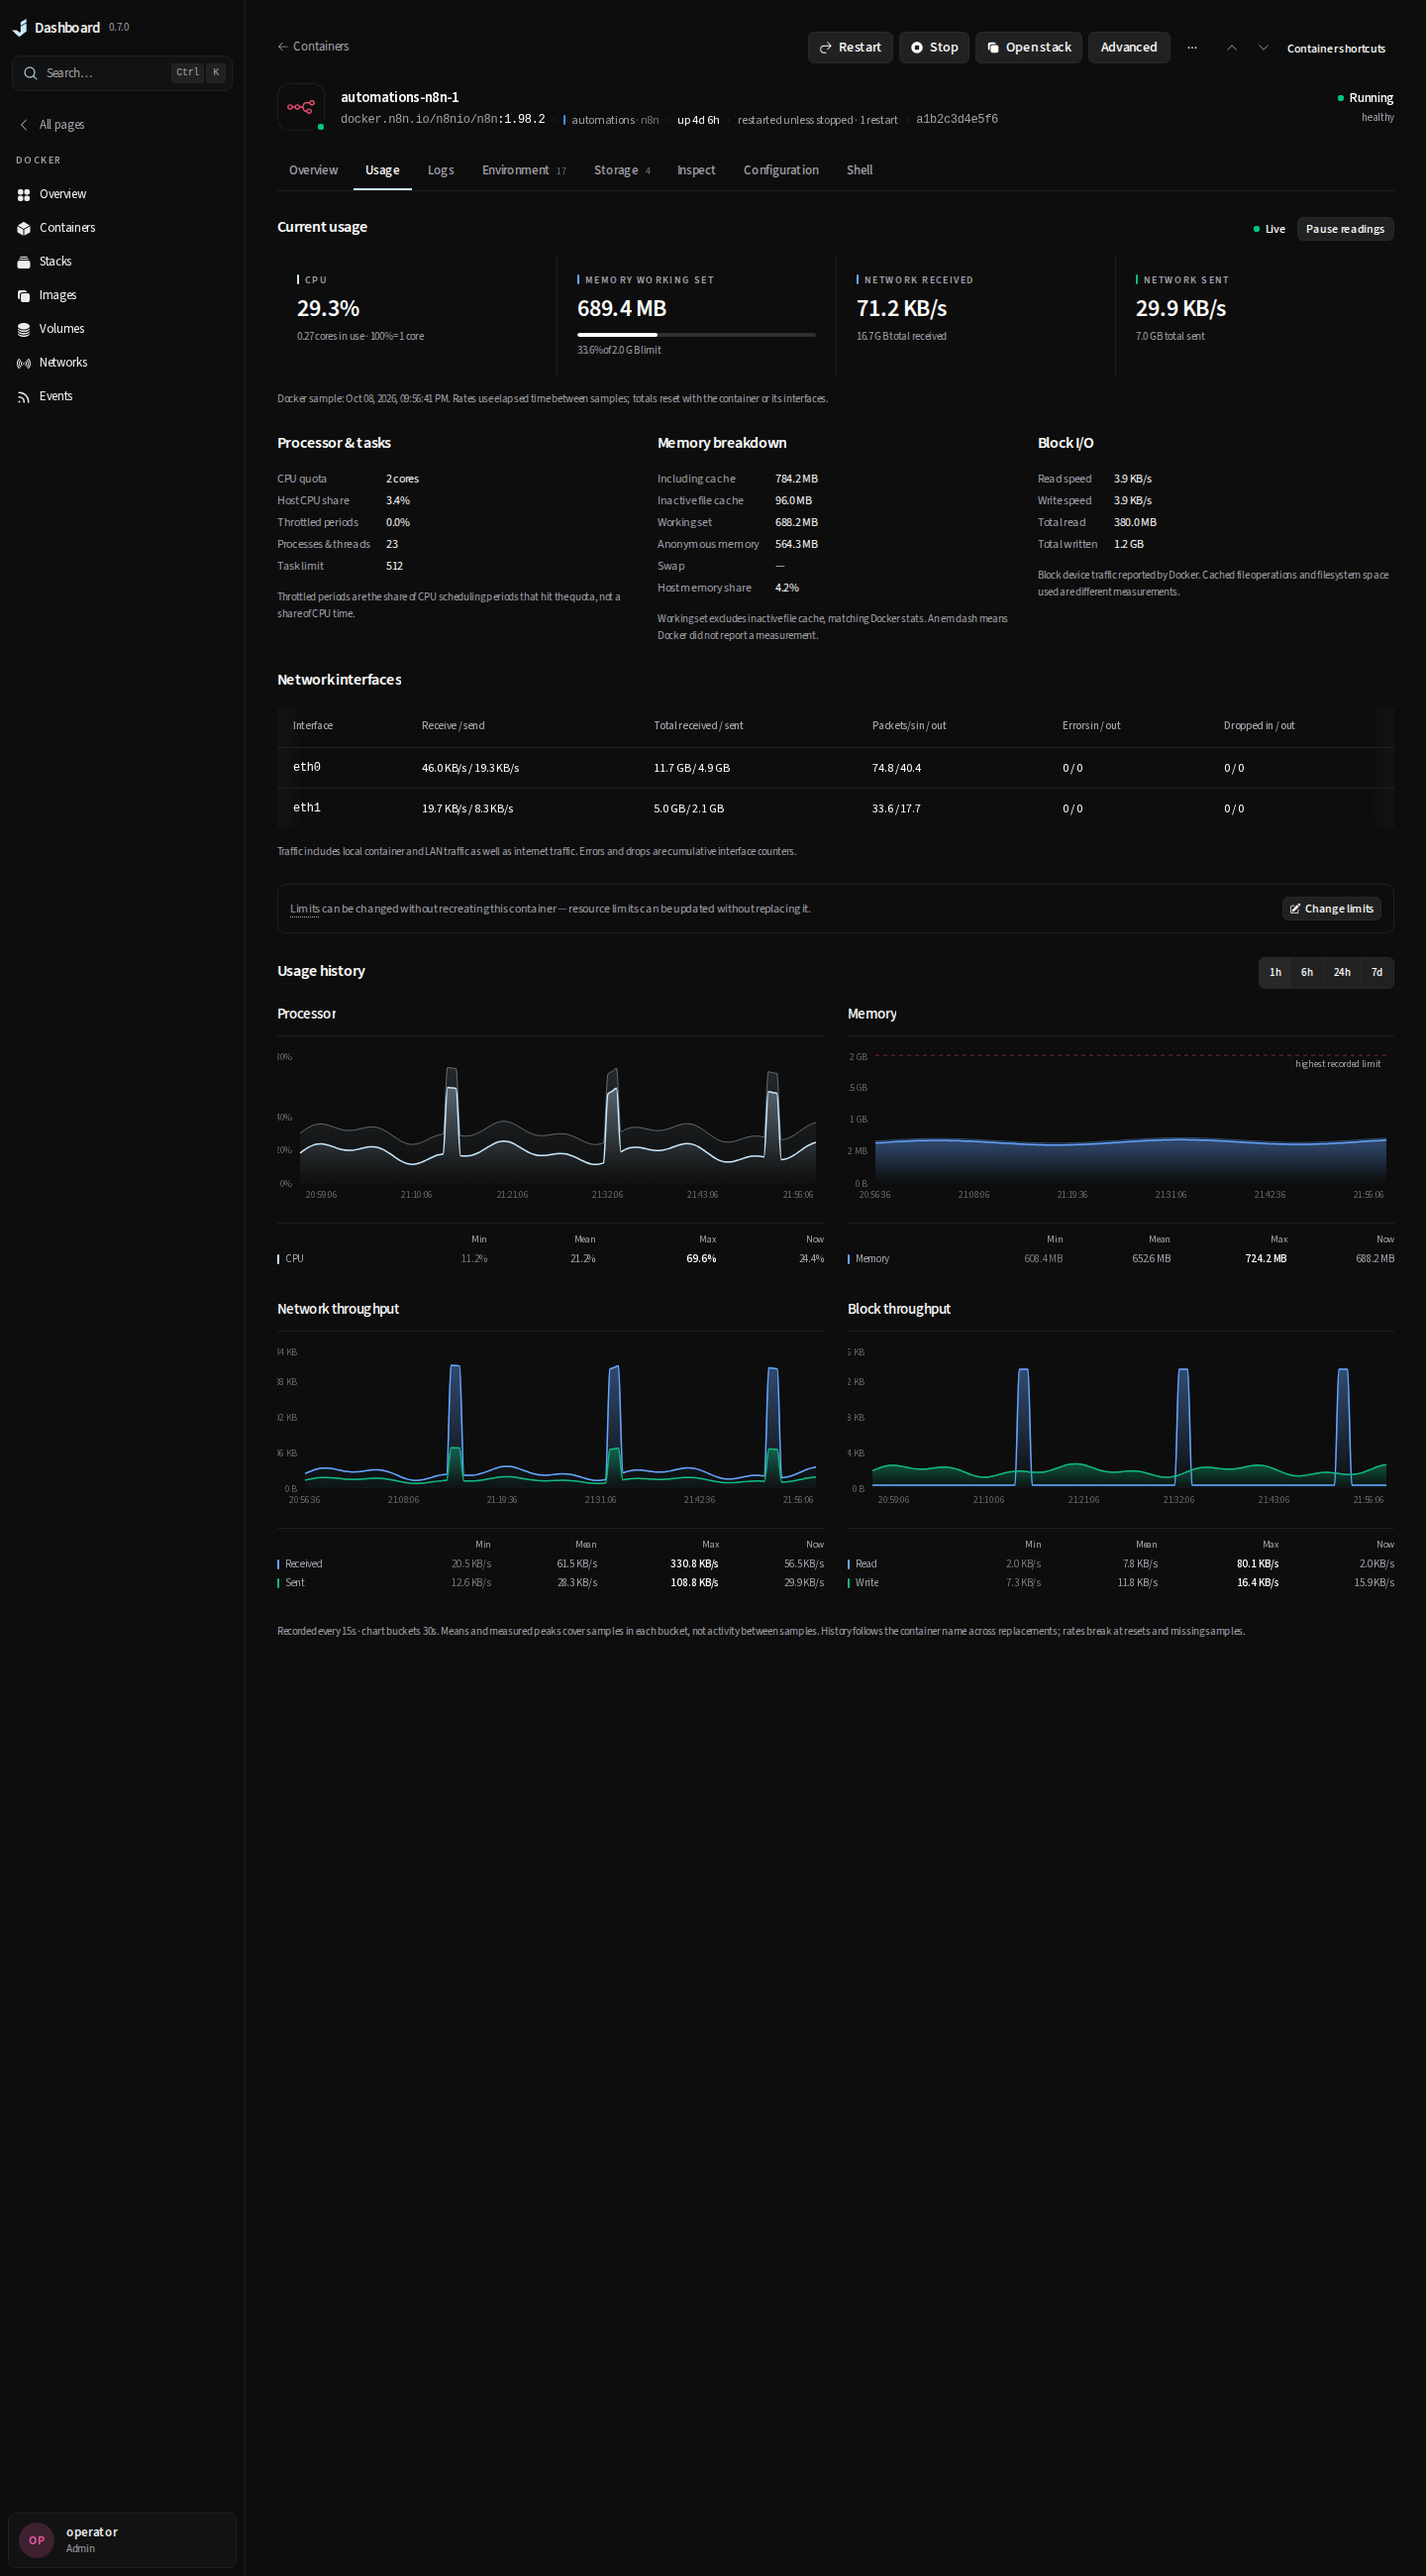
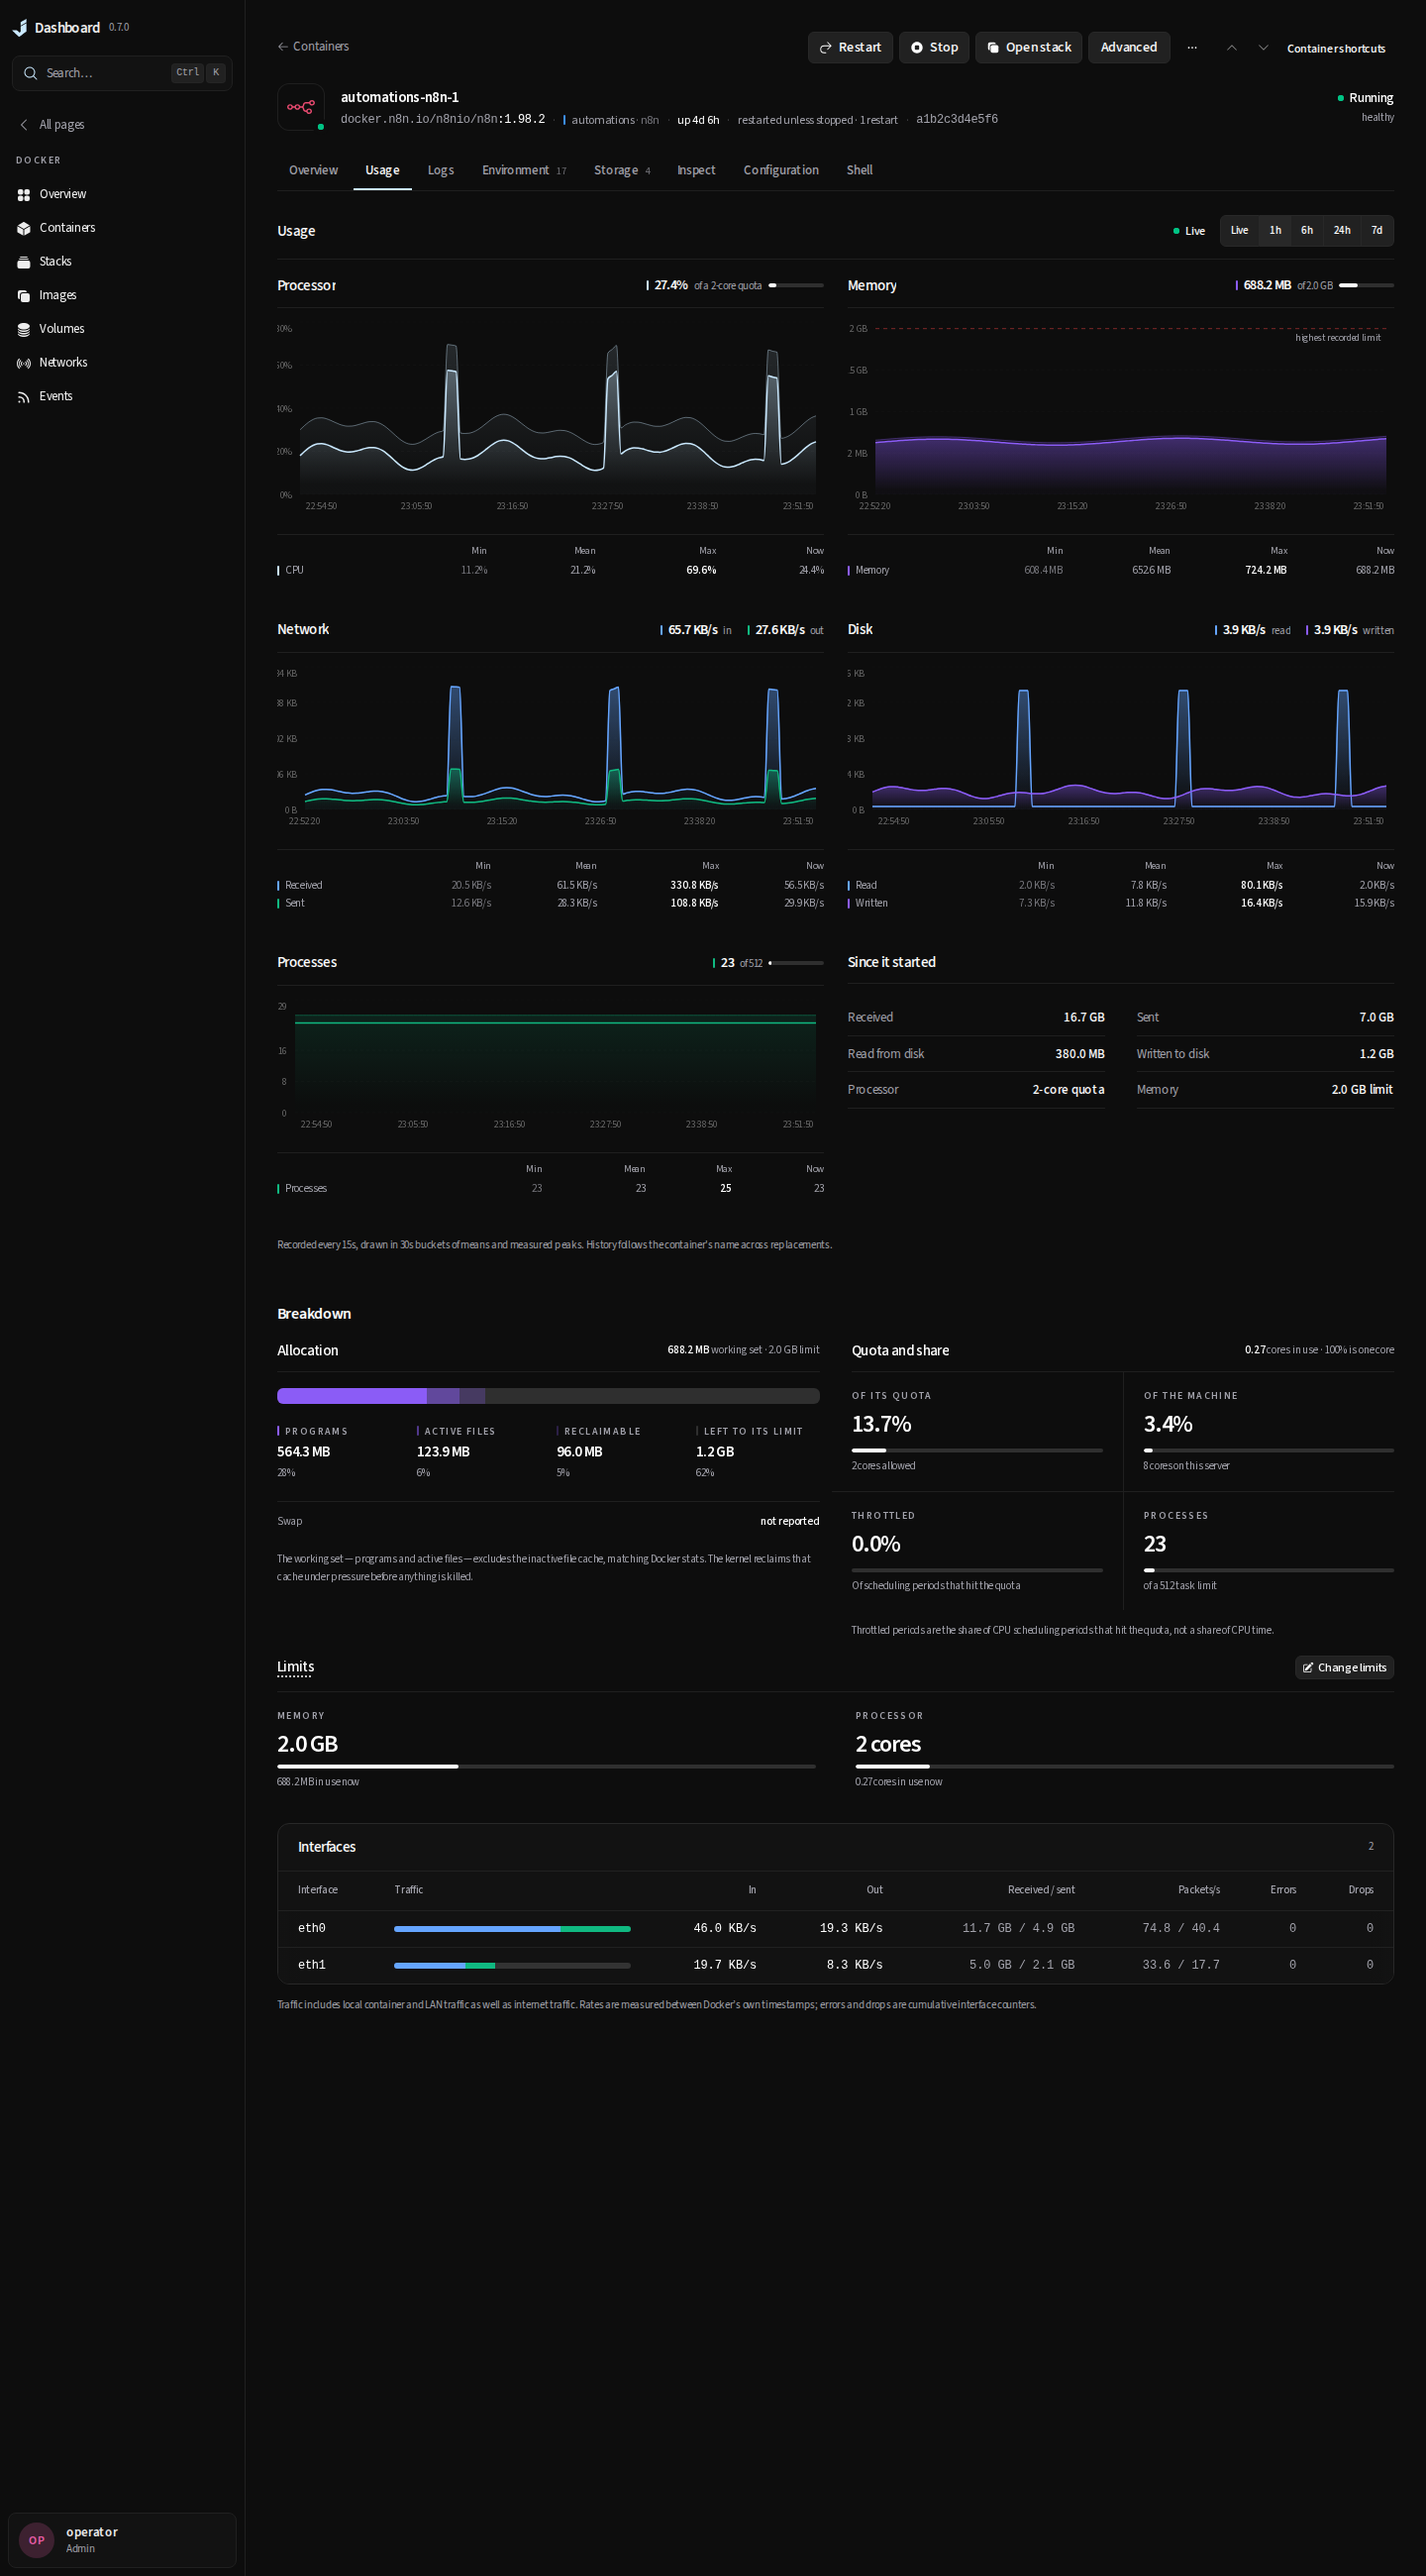
Record every view of the container page before and after its overhaul

diff --git a/docs/audits/2026-10-08-container-page-overhaul/capture.ts b/docs/audits/2026-10-08-container-page-overhaul/capture.ts
@@ -1,5 +1,11 @@
 import { chromium } from "../../../frontend/node_modules/playwright/index.mjs"
-import { N8N, RUNNER, mockContainerPage } from "../../../frontend/tests/browser/container-page-fixture"
+import {
+  N8N,
+  POSTGRES,
+  RUNNER,
+  STANDALONE,
+  mockContainerPage,
+} from "../../../frontend/tests/browser/container-page-fixture"
 
 // Run against a production build of the tree whose appearance is being recorded.
 const base = process.env.JD_BROWSER_BASE_URL ?? "http://127.0.0.1:43219"
@@ -19,7 +25,10 @@ async function shot(width: number, address: string, name: string, full = false) 
     reducedMotion: "reduce",
   })
   await mockContainerPage(page)
-  await page.goto(`${base}${address}`, { waitUntil: "domcontentloaded", timeout: 90_000 })
+  await page.goto(`${base}${address}`, {
+    waitUntil: "domcontentloaded",
+    timeout: 90_000,
+  })
   // A few frames of the live socket, so the readings have moved.
   await page.waitForTimeout(6000)
   await page.screenshot({ path: `${directory}/${phase}-${name}-${width}.png` })
@@ -32,7 +41,13 @@ for (const width of [1440, 1280, 390]) {
 await shot(1440, `/docker/containers/${N8N}?tab=overview`, "overview-full", true)
 await shot(1720, `/docker/containers/${N8N}?tab=overview`, "overview")
 await shot(1440, `/docker/containers/${RUNNER}?tab=overview`, "looping", true)
+await shot(1440, `/docker/containers/${STANDALONE}?tab=configure`, "configuration-standalone")
 await shot(1440, `/docker/containers/${N8N}?tab=usage`, "usage", true)
 await shot(1440, `/docker/containers/${N8N}?tab=env`, "environment")
 await shot(1440, `/docker/containers/${N8N}?tab=mounts`, "storage")
+await shot(1440, `/docker/containers/${N8N}?tab=logs`, "logs")
+await shot(1440, `/docker/containers/${POSTGRES}?tab=logs`, "logs-postgres")
+await shot(1440, `/docker/containers/${N8N}?tab=inspect`, "inspect")
+await shot(1440, `/docker/containers/${N8N}?tab=configure`, "configuration")
+await shot(1440, `/docker/containers/${N8N}?tab=shell`, "shell")
 await browser.close()
